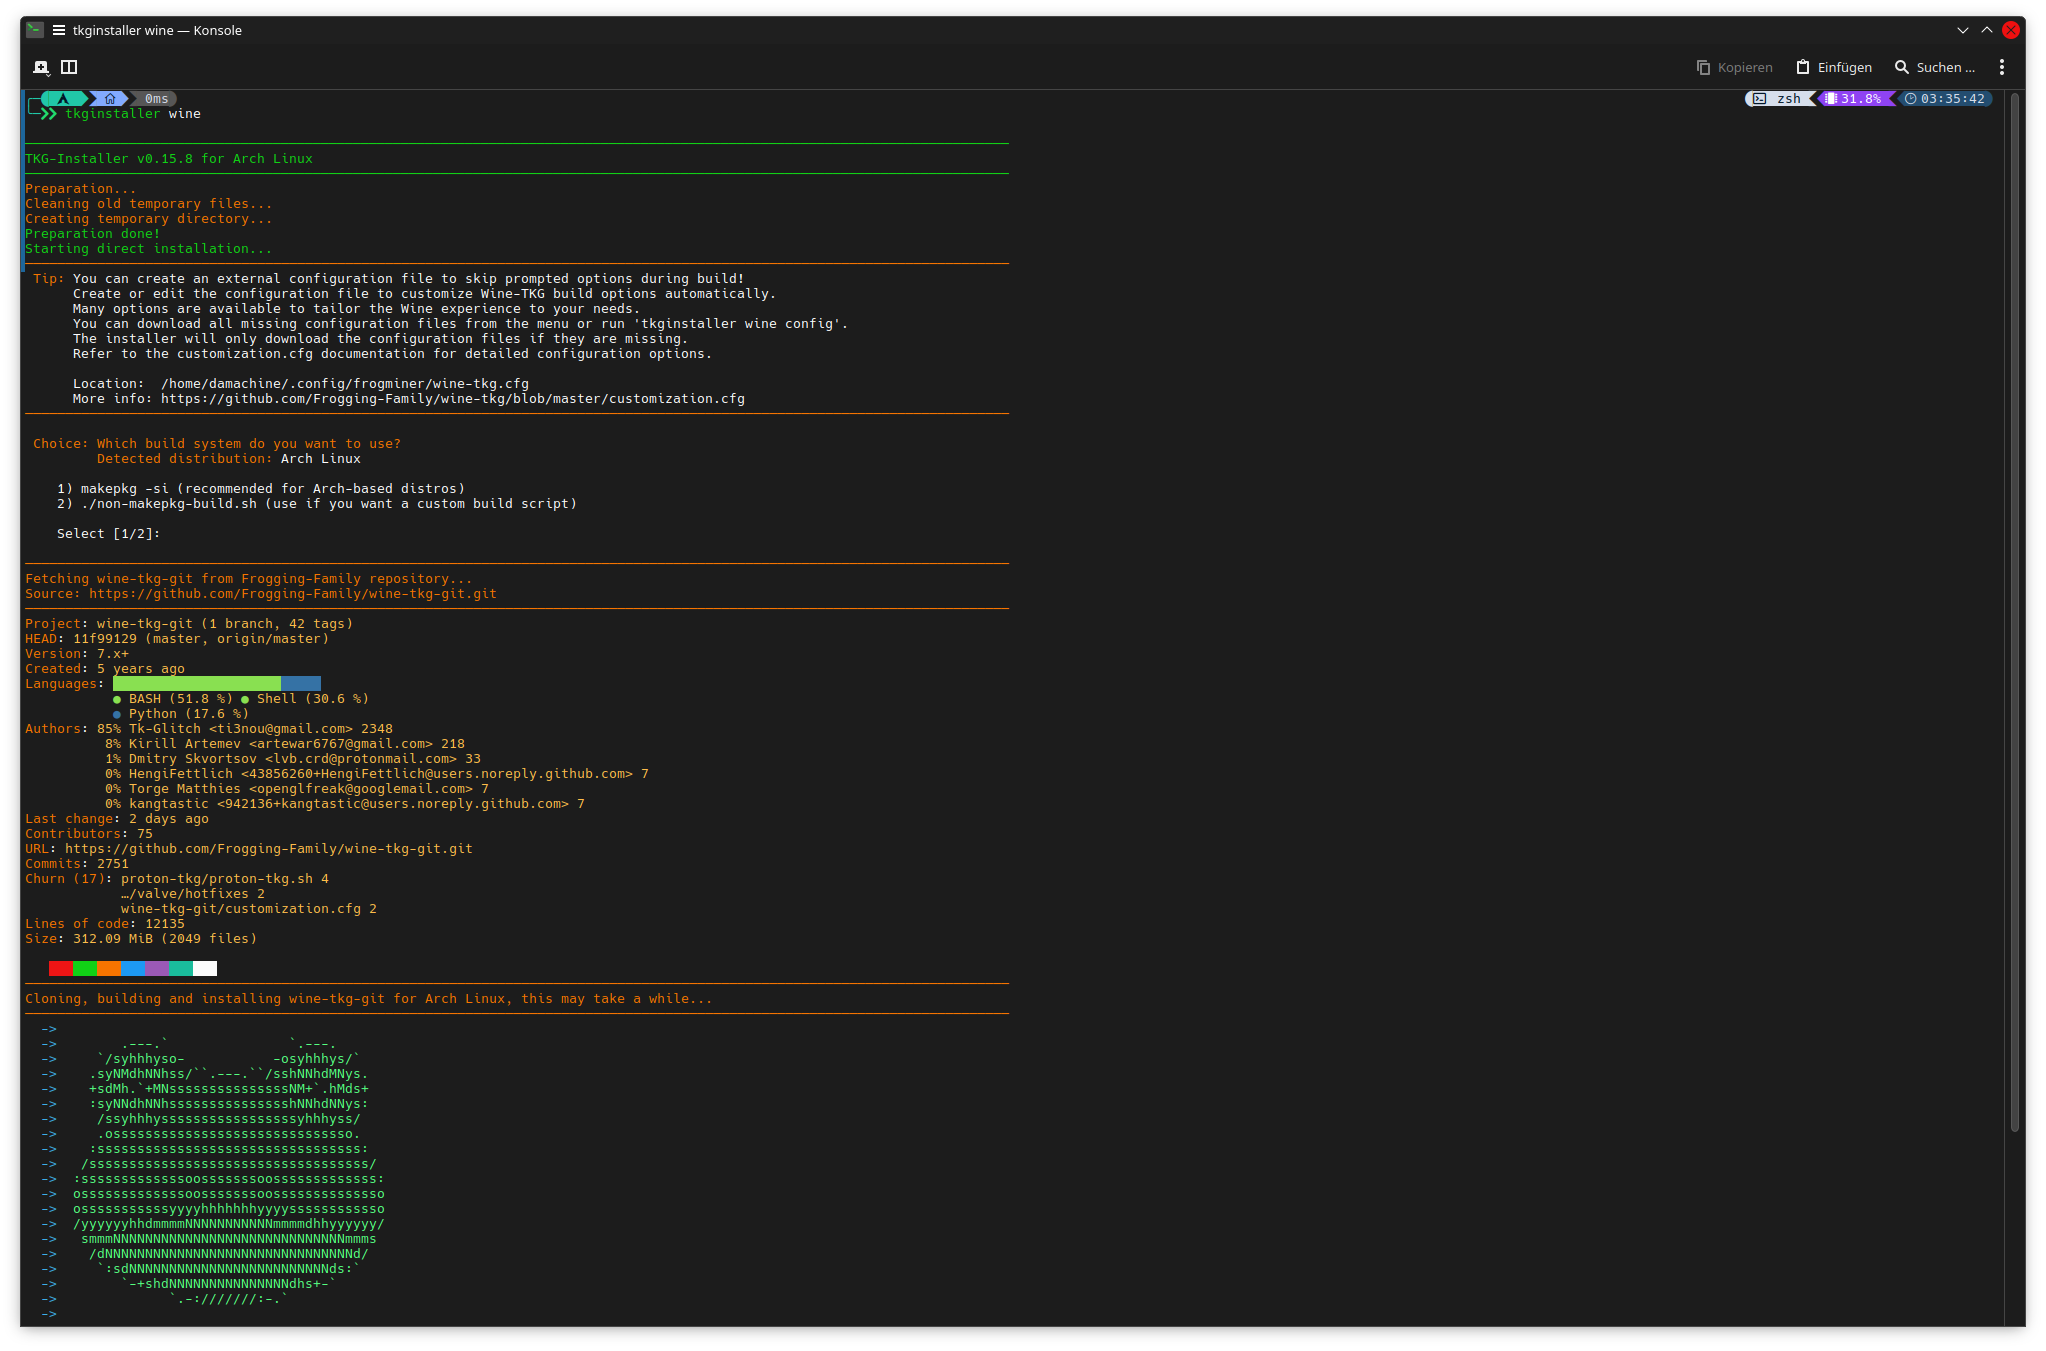
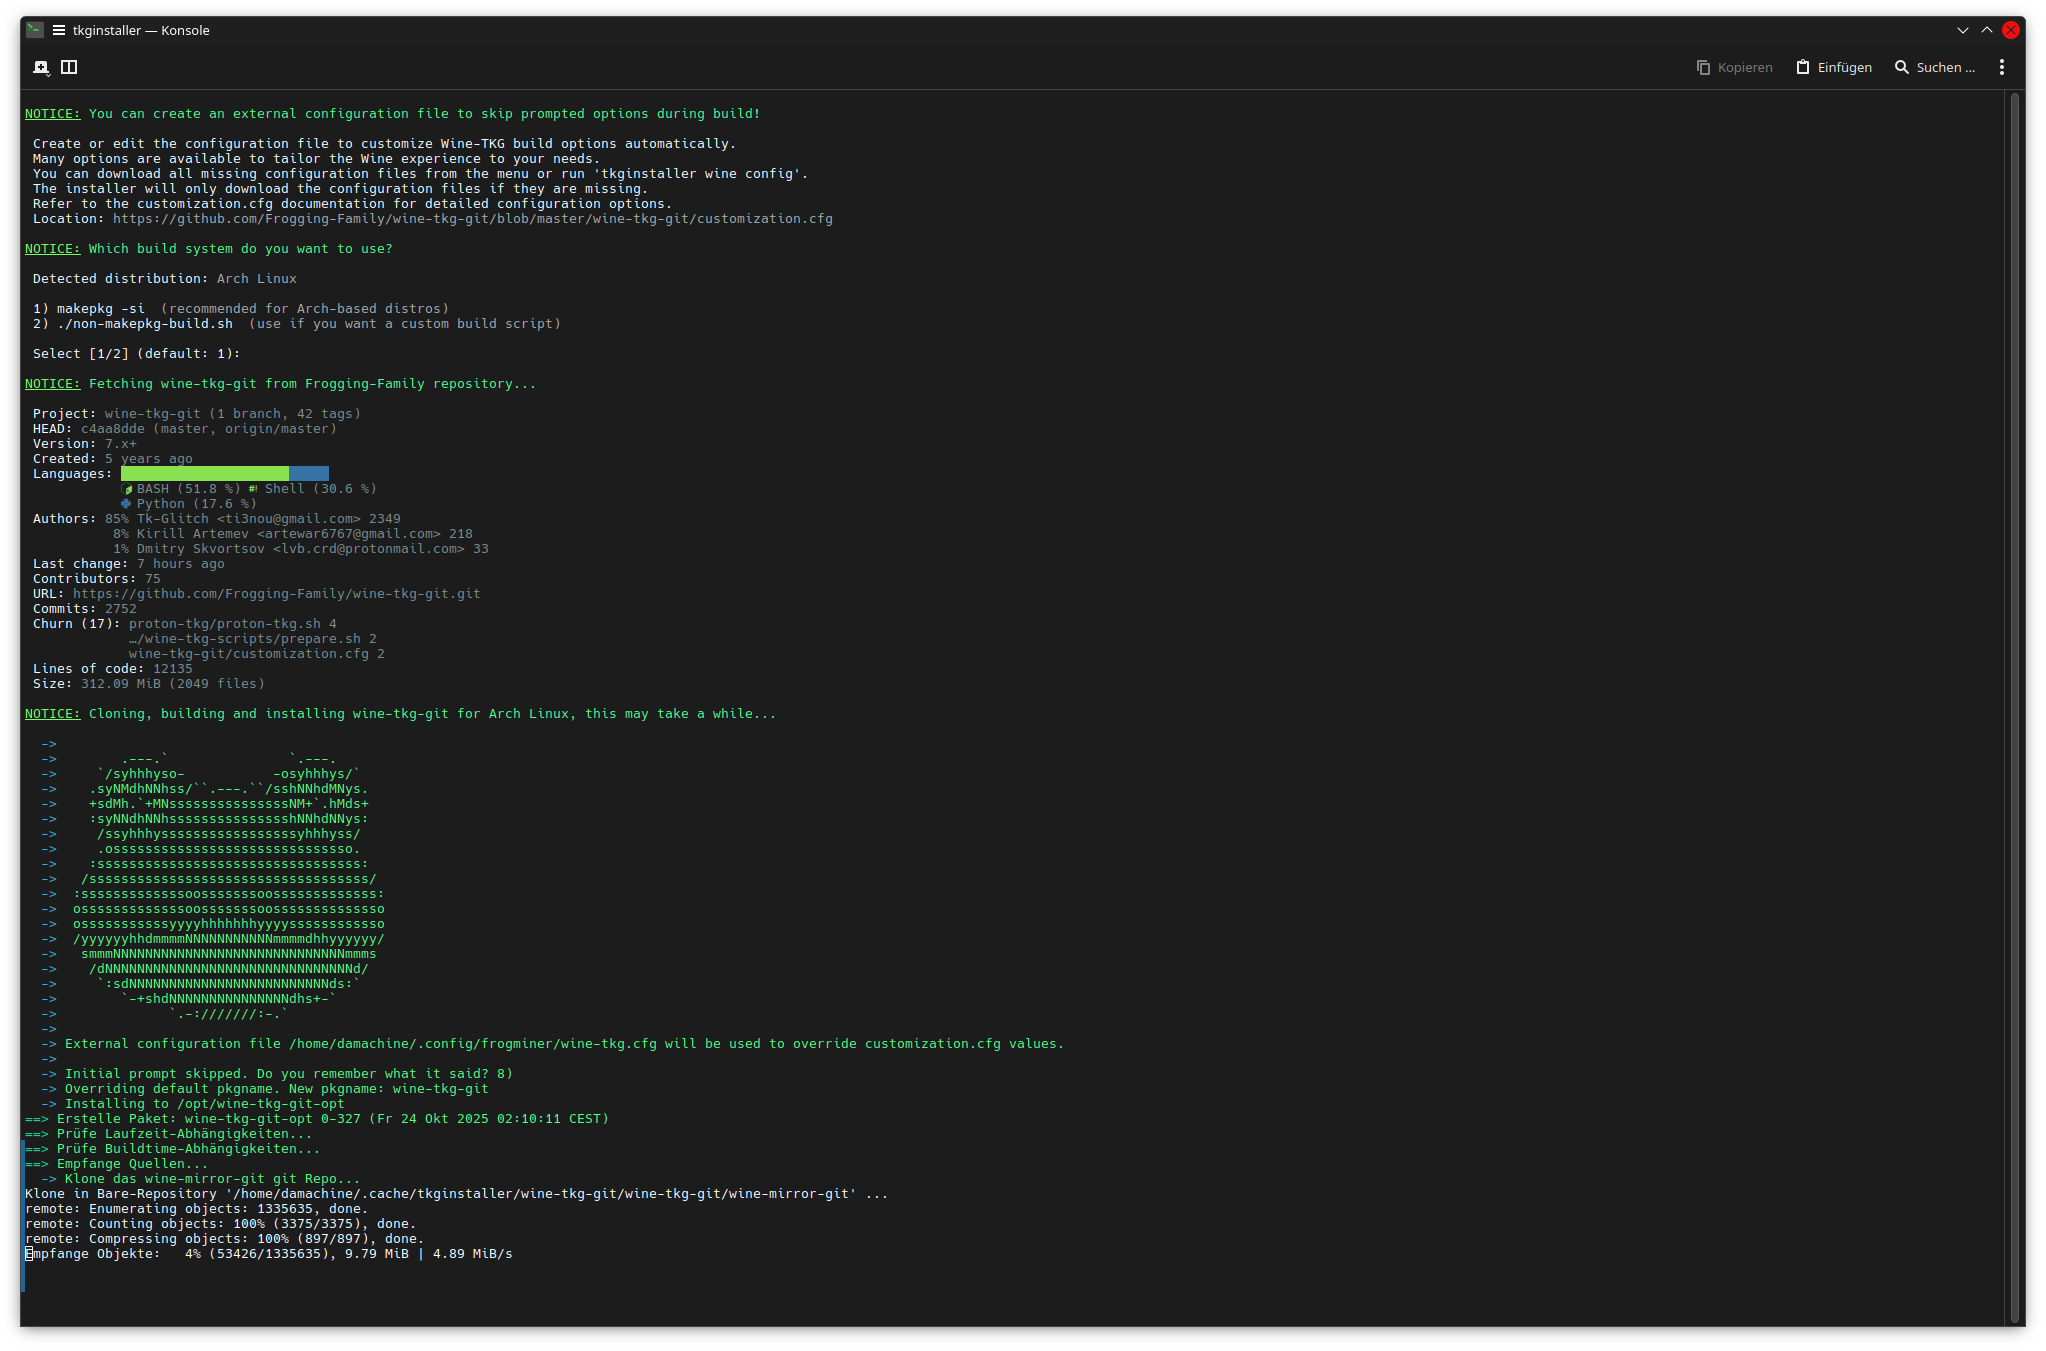
docs: update images after recent UI changes

diff --git a/README.md b/README.md
@@ -28,11 +28,8 @@
 - **Advanced Package Configuration**: This script can create external configuration files for all TKG packages and tools supporting the feature.
 - **Multi-Distro Support**: Works seamlessly on Arch-based systems and most other Linux distributions support by the Frogging-Family.
 
-[![tkginstaller-start](images/start.png)](images/start.png)
 [![tkginstaller-fzf](images/fzf.png)](images/fzf.png)
 [![tkginstaller-c](images/config.png)](images/config.png)
-[![tkginstaller-c1](images/config1.png)](images/config1.png)
-[![tkginstaller-c2](images/config2.png)](images/config2.png)
 [![tkginstaller-l](images/linux.png)](images/linux.png)
 [![tkginstaller-w](images/wine.png)](images/wine.png)
 [![tkginstaller-help](images/help.png)](images/help.png)
